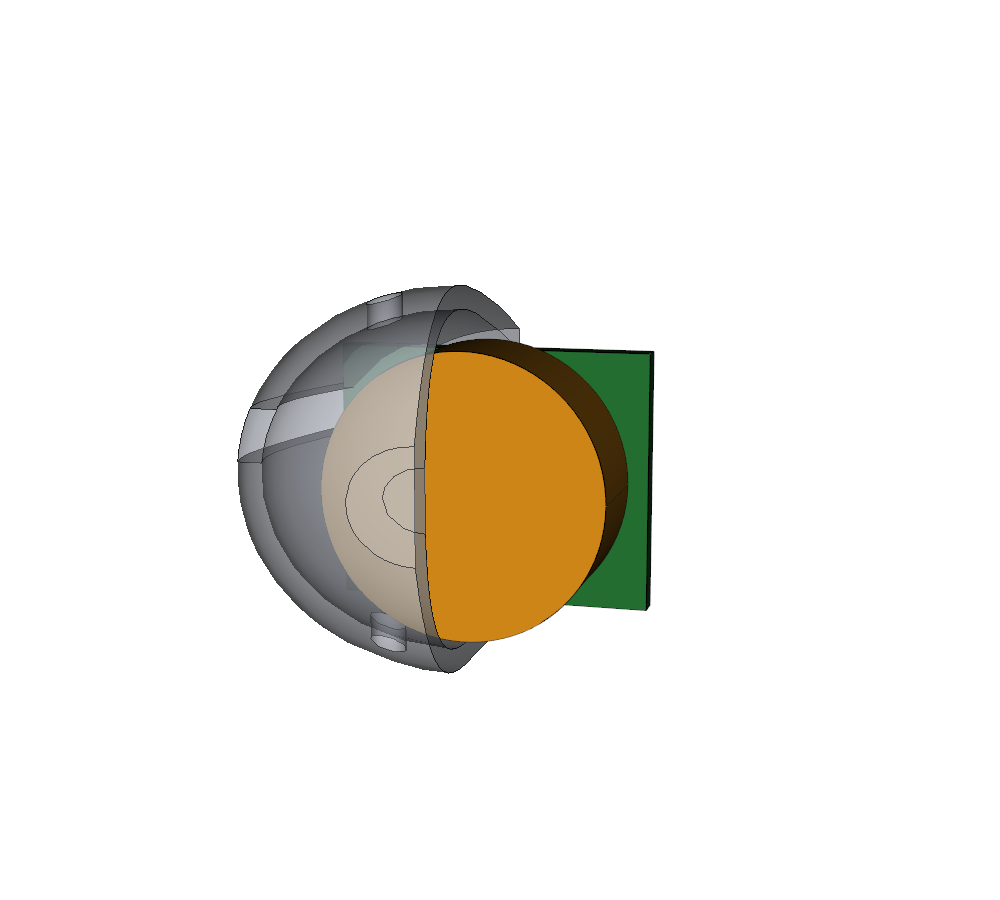
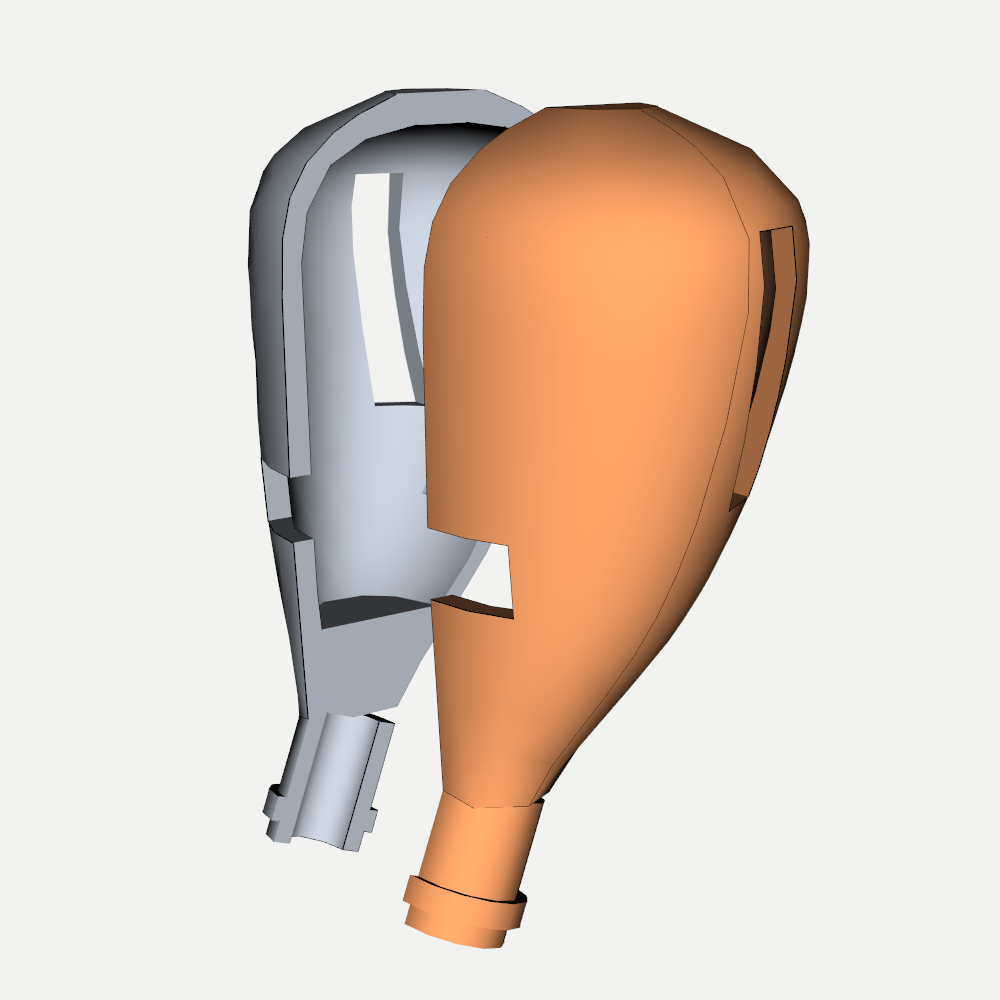
Fix v3 enclosure's bogus top/bottom shell split
The Z-height split (carried over from the earlier BTE design) put 99%
of the body's volume in one piece and a ~1% sliver in the other --
confirmed by comparing .Volume() on the exported STEPs (1820mm3 vs
19mm3), not obvious from the renders since the sliver's silhouette
still looked like a complete shell. This body is a tall vertical loft,
so a horizontal cut just slices off the tip.

Switched to an X=0 split through the tube's long axis instead, giving
left/right halves that both run the full head-to-nozzle length:
917.4mm3 vs 921.6mm3 (1.00x). All existing port/PCB/battery fit checks
re-run clean against the corrected geometry.

Claude-Session: https://claude.ai/code/session_01YTbrWH9Gt2quSDLgz6Te5V

diff --git a/mechanical_cad/haven_dev_board_enclosure_v1/inear_v3_lofted/generate_inear_enclosure_v3.py b/mechanical_cad/haven_dev_board_enclosure_v1/inear_v3_lofted/generate_inear_enclosure_v3.py
@@ -93,8 +93,15 @@ mic_port = cq.Workplane("XZ").workplane(offset=-REACH).center(3, 12).circle(0.5)
 led_port = cq.Workplane("XZ").workplane(offset=-REACH).center(-4, 9).circle(0.9).extrude(2 * REACH)
 body = body.cut(mic_port).cut(led_port)
 
-top_half = body.intersect(cq.Workplane("XY").box(200, 200, 60, centered=(True, True, False)).translate((0, 0, -20)))
-bottom_half = body.cut(top_half)
+# Split into two moldable/printable halves along a plane through the
+# tube's long (Z) axis, not across it. A Z-height split (tried first) put
+# ~99% of the body's volume in one piece and a ~1% sliver in the other --
+# this body is a tall, mostly-vertical loft, so cutting *across* its height
+# just slices off a tiny end cap, not two comparable halves. Splitting by
+# X=0 instead gives left/right pieces that both run the full head-to-nozzle
+# length, which is what an actual two-part shell needs.
+left_half = body.intersect(cq.Workplane("XY").box(200, 200, 200, centered=(True, True, True)).translate((-100, 0, 0)))
+right_half = body.cut(left_half)
 
 # ---- Real internal components: compact board + battery, both in the
 #      widest band (z ~ 5 to 12) ----
@@ -108,8 +115,12 @@ batt_ref = cq.Workplane("XY").workplane(offset=BATT_Z0).center(0, -1).circle(BAT
 
 OUT = "/tmp/claude-1000/-home-paul22iac/de6df91d-5626-4f43-95cb-adf67fb0294d/scratchpad"
 body.val().exportStep(f"{OUT}/haven_enclosure_inear_v3.step")
-top_half.val().exportStep(f"{OUT}/haven_enclosure_inear_top_v3.step")
-bottom_half.val().exportStep(f"{OUT}/haven_enclosure_inear_bottom_v3.step")
+left_half.val().exportStep(f"{OUT}/haven_enclosure_inear_left_v3.step")
+right_half.val().exportStep(f"{OUT}/haven_enclosure_inear_right_v3.step")
+
+print("--- shell split sanity check (both halves should be comparable, not a sliver) ---")
+lv, rv = left_half.val().Volume(), right_half.val().Volume()
+print(f"left volume: {lv:.1f} mm3, right volume: {rv:.1f} mm3, ratio: {max(lv,rv)/min(lv,rv):.2f}x")
 
 bb = body.val().BoundingBox()
 print("bbox:", round(bb.xlen, 1), round(bb.ylen, 1), round(bb.zlen, 1))

diff --git a/mechanical_cad/haven_dev_board_enclosure_v1/inear_v3_lofted/README.md b/mechanical_cad/haven_dev_board_enclosure_v1/inear_v3_lofted/README.md
@@ -36,6 +36,27 @@ fit-checked in this version instead. Worth keeping in mind for whoever
 lays out the real board: it needs to be genuinely compact, not just
 "smaller than the case."
 
+## Bug found and fixed: the two-part split was bogus
+
+The original shell split (`top_half` = everything above `z=-20`,
+`bottom_half` = the remainder) was carried over from the earlier BTE
+enclosure, where a horizontal split made sense for that shape's
+orientation. It doesn't for this one: this body is a tall, mostly-vertical
+loft (head at z≈17 down to the nozzle base at z≈-14.5), so a Z-height cut
+put **99% of the volume in "top" and the leftover 1% sliver in "bottom"**
+(1820 mm³ vs 19 mm³, confirmed by importing both STEPs and comparing
+`.Volume()` directly — not something a render alone would necessarily
+flag, since "top" alone silhouettes like a complete shell). Not a
+two-part enclosure by any usable definition.
+
+Fixed by splitting through the tube's long axis instead — an `X=0` plane,
+giving left/right halves that both run the full head-to-nozzle length.
+Re-verified by volume: **917.4 mm³ vs 921.6 mm³ (1.00x ratio)**. All the
+existing port/PCB/battery checks were re-run against the corrected split
+and still pass. Files renamed `..._left_v3.step` / `..._right_v3.step` to
+describe what they actually are now, replacing the old (deleted)
+`..._top_v3.step` / `..._bottom_v3.step`.
+
 ## Verification
 
 Same discipline as v2: every port cut is verified by scanning many points
@@ -48,7 +69,8 @@ collisions. All pass with 0 collisions found.
 ## Still open
 
 Same caveats as the earlier versions: no real ear-fit/anthropometric data,
-no snap-fit/screw-boss features between the shell halves, no DFM pass,
+no snap-fit/screw-boss features holding the (now-correct) left/right
+halves together, no DFM pass,
 placeholder PCB/battery envelopes (not the real routed board outline —
 still needs the L-shaped/notched consideration from the BTE version's
 findings once a real board layout exists). Also still open: whether
@@ -59,7 +81,7 @@ put them on the case).
 ## Files
 
 - `haven_enclosure_inear_assembled_v3.step` — full shell, for viewing.
-- `haven_enclosure_inear_top_v3.step`, `haven_enclosure_inear_bottom_v3.step`
+- `haven_enclosure_inear_left_v3.step`, `haven_enclosure_inear_right_v3.step`
   — the two actual printable/moldable parts.
 - `generate_inear_enclosure_v3.py` — CadQuery source; the `stations` list
   at the top defines the whole silhouette.
